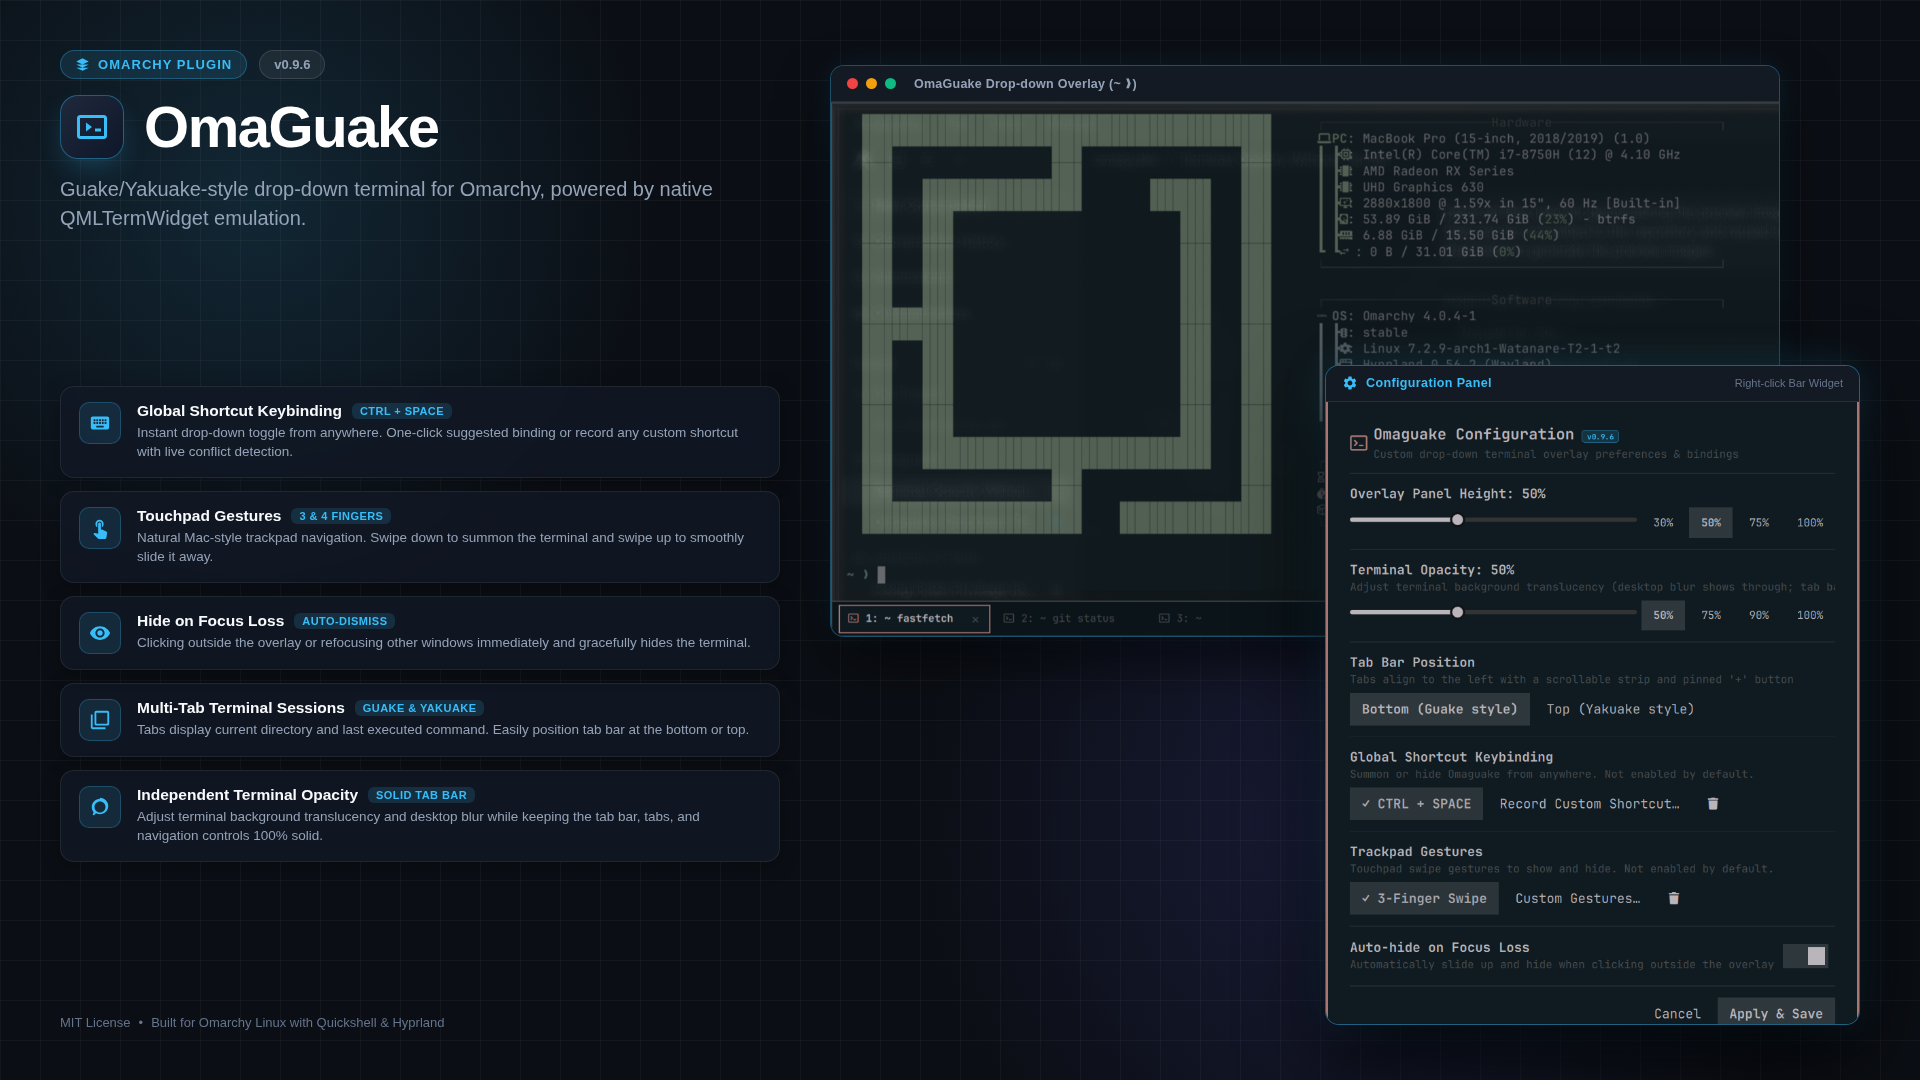
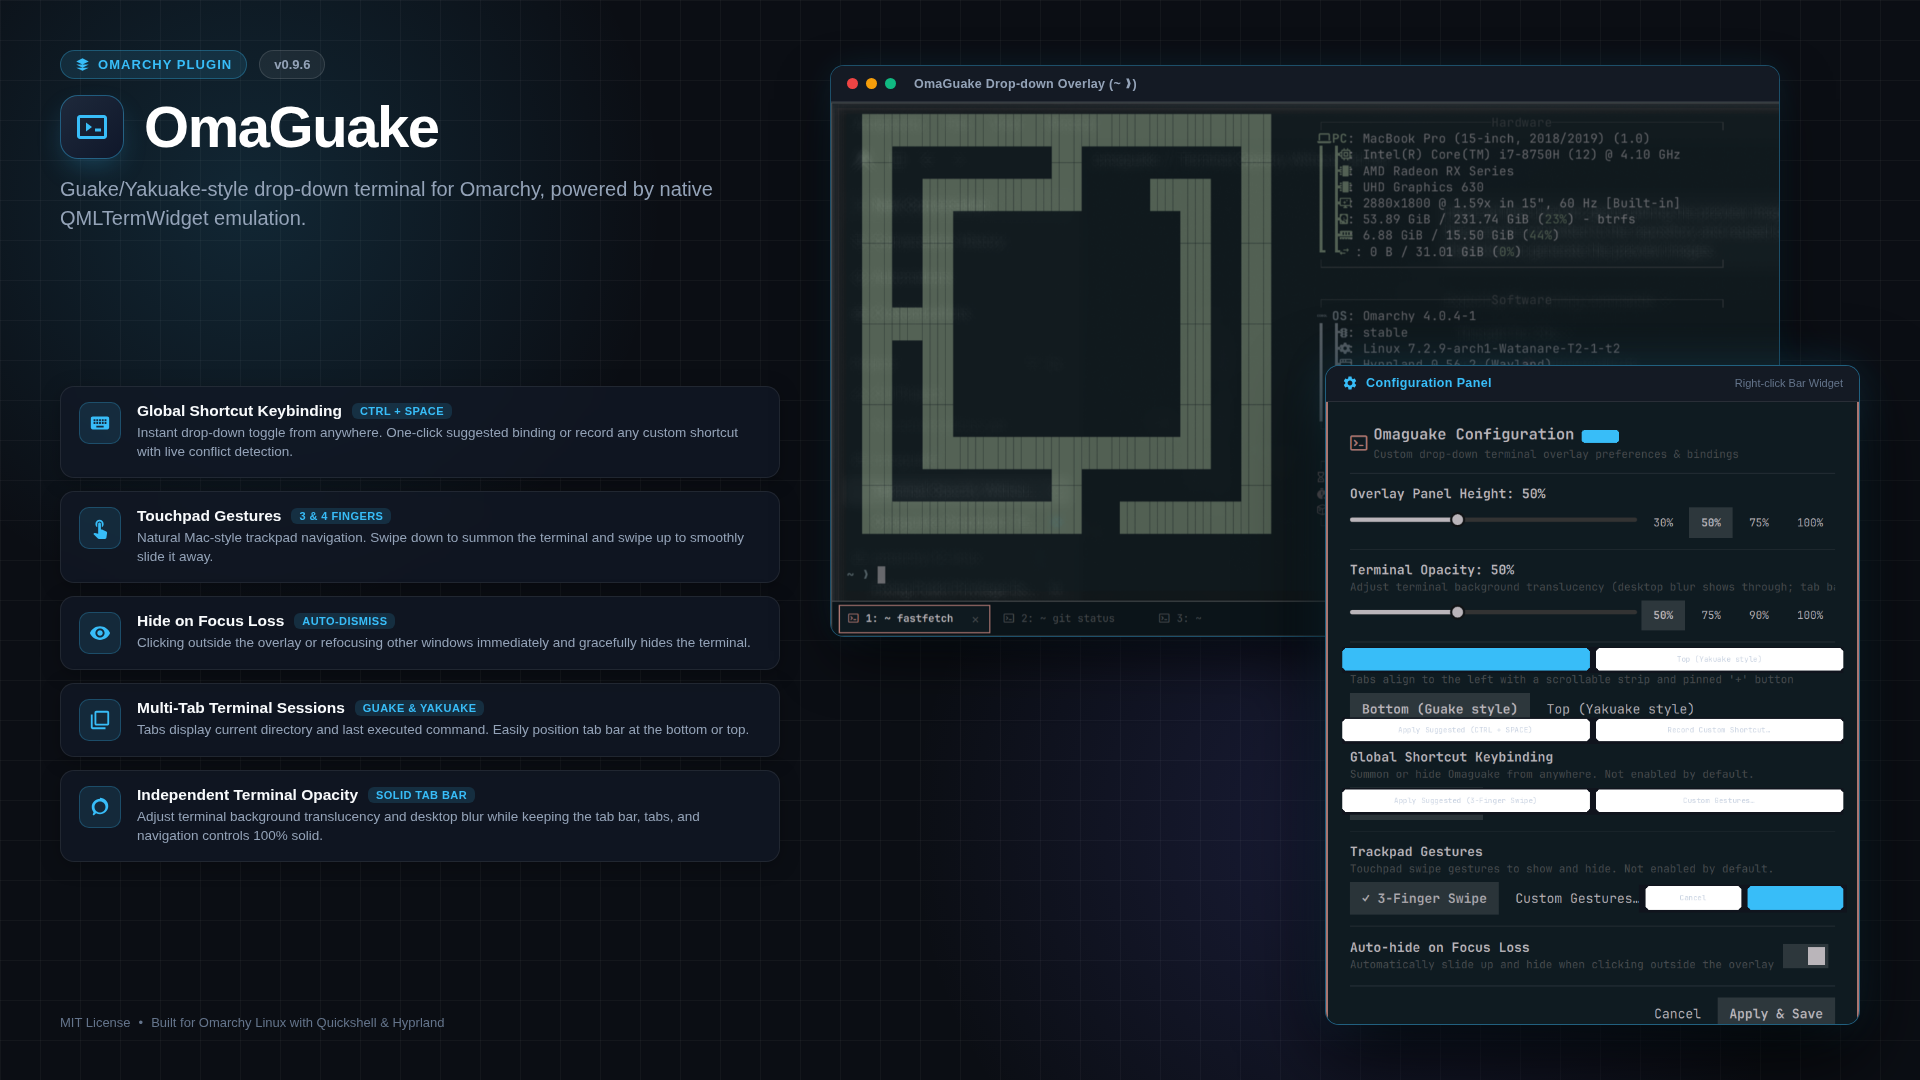
style: make settings panel buttons coherent with uniform widths

Changed region(s): [[0.6875, 0.5806, 0.9688, 0.7639], [0.8438, 0.7944, 0.9688, 0.8556], [0.8125, 0.3972, 0.8438, 0.4278]]

diff --git a/SettingsOverlay.qml b/SettingsOverlay.qml
@@ -356,10 +356,12 @@ PopupCard {
 
         Row {
           id: heightPresetRow
-          spacing: 4
+          spacing: Style.space(4)
           Repeater {
             model: [30, 50, 75, 100]
             delegate: Button {
+              width: Style.space(46)
+              horizontalPadding: 0
               text: modelData + "%"
               fontSize: Style.font.caption
               selected: root.panelHeightPercent === modelData
@@ -434,10 +436,12 @@ PopupCard {
 
         Row {
           id: opacityPresetRow
-          spacing: 4
+          spacing: Style.space(4)
           Repeater {
             model: [50, 75, 90, 100]
             delegate: Button {
+              width: Style.space(46)
+              horizontalPadding: 0
               text: modelData + "%"
               fontSize: Style.font.caption
               selected: root.overlayOpacityPercent === modelData
@@ -480,13 +484,16 @@ PopupCard {
       }
 
       Row {
+        width: parent.width
         spacing: Style.spacing.sm
         Button {
+          width: Math.floor((parent.width - Style.spacing.sm) / 2)
           text: "Bottom (Guake style)"
           selected: root.tabsPosition === "bottom"
           onClicked: root.tabsPosition = "bottom"
         }
         Button {
+          width: Math.floor((parent.width - Style.spacing.sm) / 2)
           text: "Top (Yakuake style)"
           selected: root.tabsPosition === "top"
           onClicked: root.tabsPosition = "top"
@@ -524,11 +531,17 @@ PopupCard {
 
       // Action buttons row
       Row {
+        id: keybindBtnRow
+        width: parent.width
         spacing: Style.spacing.sm
+
+        readonly property real trashW: !!root.currentKeybinding ? (Style.space(38) + Style.spacing.sm) : 0
+        readonly property real actionBtnW: Math.floor((width - trashW - Style.spacing.sm) / 2)
 
         // Suggested Keybinding button
         Button {
           id: applySuggestedKeyBtn
+          width: keybindBtnRow.actionBtnW
           readonly property bool isSuggestedAssigned: root.currentKeybinding === "CTRL + SPACE"
           text: isSuggestedAssigned ? "✓ CTRL + SPACE" : "Apply Suggested (CTRL + SPACE)"
           enabled: !isSuggestedAssigned
@@ -550,6 +563,7 @@ PopupCard {
 
         // Record Custom Keybinding button
         Button {
+          width: keybindBtnRow.actionBtnW
           readonly property bool isCustomAssigned: !!root.currentKeybinding && root.currentKeybinding !== "CTRL + SPACE"
           text: isCustomAssigned ? ("✓ " + root.currentKeybinding) : "Record Custom Shortcut…"
           selected: isCustomAssigned
@@ -571,6 +585,7 @@ PopupCard {
         // Remove shortcut button
         Button {
           visible: !!root.currentKeybinding
+          width: Style.space(38)
           iconText: "\uf1f8"
           iconSize: Style.font.body
           tooltipText: "Remove global shortcut"
@@ -609,11 +624,17 @@ PopupCard {
 
       // Action buttons row
       Row {
+        id: gesturesBtnRow
+        width: parent.width
         spacing: Style.spacing.sm
+
+        readonly property real trashW: root.gesturesEnabled ? (Style.space(38) + Style.spacing.sm) : 0
+        readonly property real actionBtnW: Math.floor((width - trashW - Style.spacing.sm) / 2)
 
         // Suggested Gestures button
         Button {
           id: applySuggestedGestBtn
+          width: gesturesBtnRow.actionBtnW
           readonly property bool isSuggestedGestAssigned: root.gesturesEnabled && root.gestureFingers === 3
           text: isSuggestedGestAssigned ? "✓ 3-Finger Swipe" : "Apply Suggested (3-Finger Swipe)"
           enabled: !isSuggestedGestAssigned
@@ -635,6 +656,7 @@ PopupCard {
 
         // Custom Gestures button
         Button {
+          width: gesturesBtnRow.actionBtnW
           readonly property bool isCustomGestAssigned: root.gesturesEnabled && root.gestureFingers !== 3
           text: isCustomGestAssigned ? ("✓ " + root.gestureFingers + "-Finger Swipe") : "Custom Gestures…"
           selected: isCustomGestAssigned
@@ -651,6 +673,7 @@ PopupCard {
         // Remove gestures button
         Button {
           visible: root.gesturesEnabled
+          width: Style.space(38)
           iconText: "\uf1f8"
           iconSize: Style.font.body
           tooltipText: "Remove touchpad gestures"
@@ -714,11 +737,15 @@ PopupCard {
       spacing: Style.spacing.sm
 
       Button {
+        id: cancelBtn
+        width: Math.max(saveBtn.implicitWidth, Style.space(120))
         text: "Cancel"
         onClicked: root.close()
       }
 
       Button {
+        id: saveBtn
+        width: Math.max(implicitWidth, Style.space(120))
         text: "Apply & Save"
         selected: true
         onClicked: root.applyAllAndClose()
@@ -945,11 +972,15 @@ PopupCard {
           spacing: Style.spacing.sm
 
           Button {
+            id: recCancelBtn
+            width: Math.max(recApplyBtn.implicitWidth, Style.space(120))
             text: "Cancel"
             onClicked: root.recordingDialogOpen = false
           }
 
           Button {
+            id: recApplyBtn
+            width: Math.max(implicitWidth, Style.space(120))
             text: "Apply This Shortcut"
             selected: true
             enabled: !!root.recordedChord && !root.recordedConflict && !root.isCheckingRecordedKey
@@ -1012,9 +1043,11 @@ PopupCard {
         }
 
         Row {
+          width: parent.width
           spacing: Style.spacing.sm
 
           Button {
+            width: Math.floor((parent.width - Style.spacing.sm) / 2)
             text: "3 Fingers (Guake Standard)"
             selected: root.candidateGestureFingers === 3
             onClicked: {
@@ -1024,6 +1057,7 @@ PopupCard {
           }
 
           Button {
+            width: Math.floor((parent.width - Style.spacing.sm) / 2)
             text: "4 Fingers"
             selected: root.candidateGestureFingers === 4
             onClicked: {
@@ -1074,6 +1108,8 @@ PopupCard {
           spacing: Style.spacing.sm
 
           Button {
+            id: gestCancelBtn
+            width: Math.max(gestApplyBtn.implicitWidth, Style.space(120))
             text: "Cancel"
             onClicked: root.customGesturesDialogOpen = false
           }
@@ -1090,6 +1126,9 @@ PopupCard {
           }
 
           Button {
+            id: gestApplyBtn
+            width: Math.max(implicitWidth, Style.space(120))
+            visible: !root.customGestureConflict
             text: "Apply Gestures"
             selected: true
             enabled: !root.customGestureConflict
